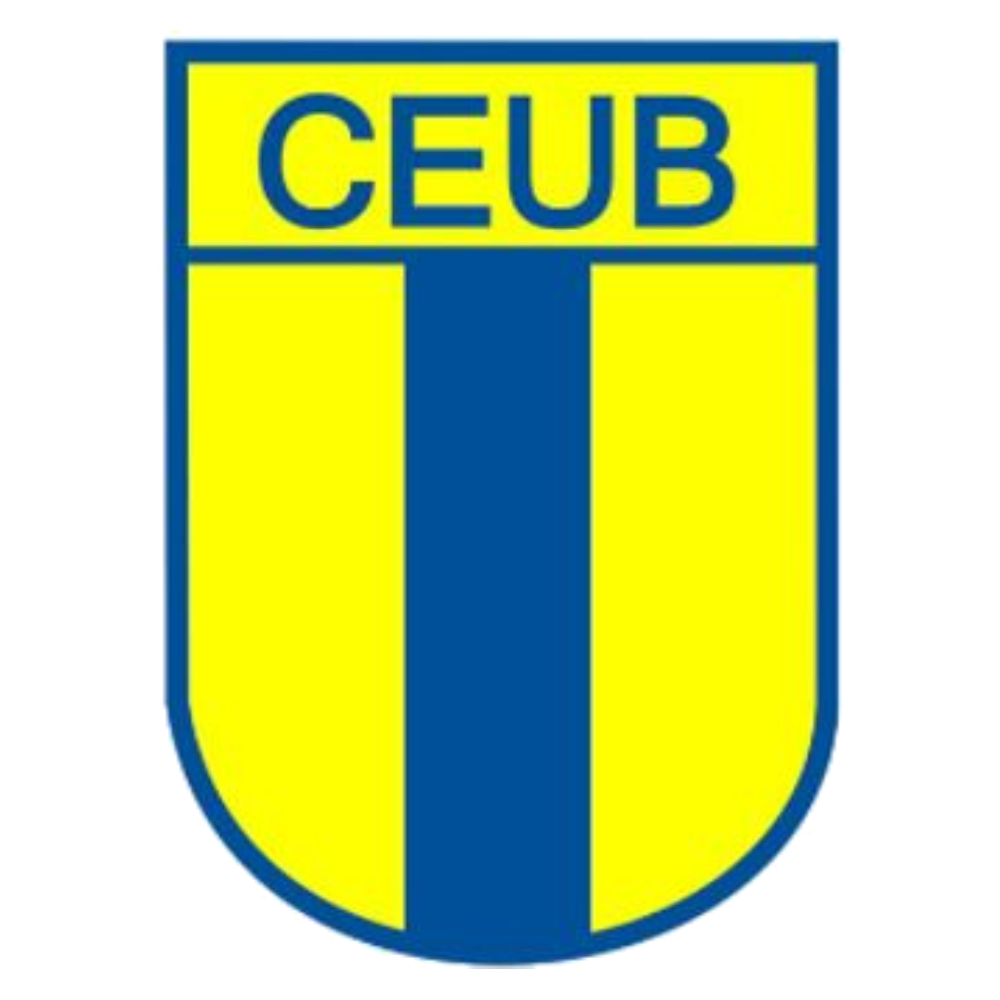
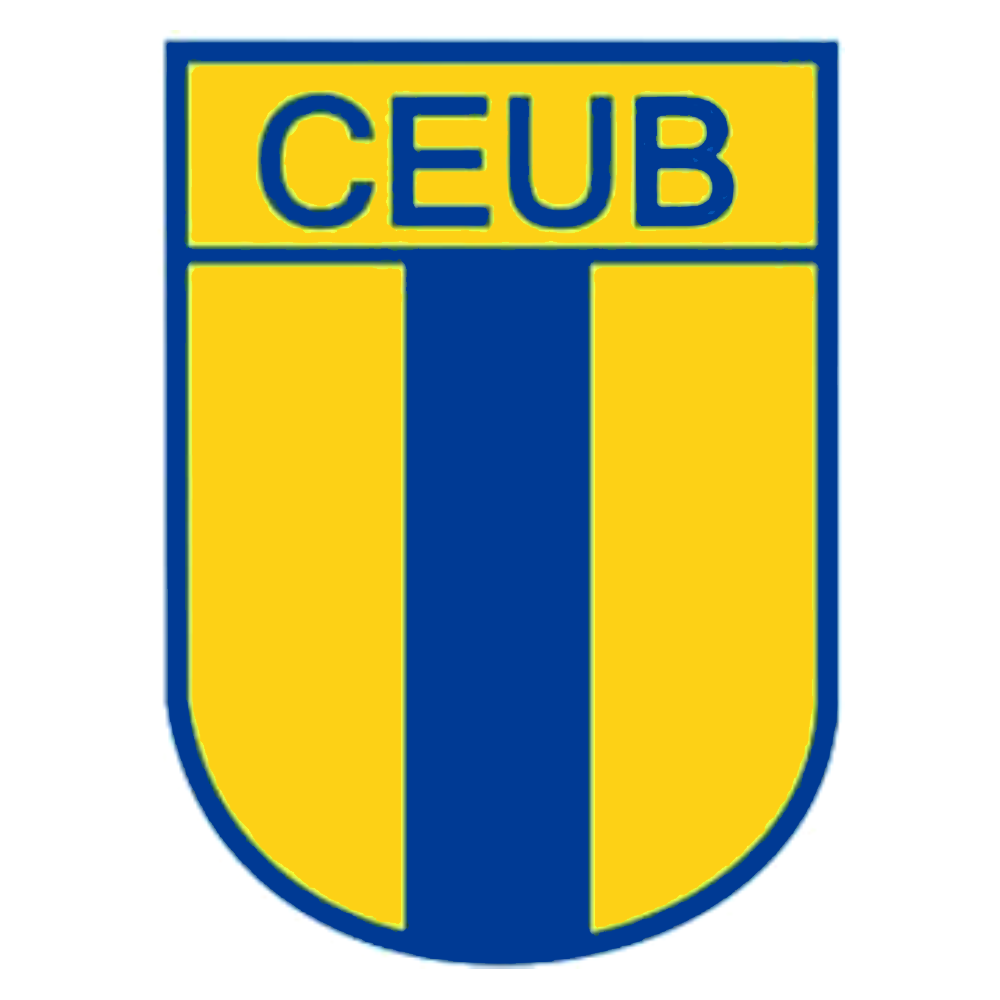
melhorando escudos

diff --git a/src/Times.js b/src/Times.js
@@ -47,7 +47,7 @@ function Times(time, data) {
                   nomeAtual = time;
                   escudo = time;
                   backgroundColor = "#006c34";
-                  letterColor = "black";
+                  letterColor = "white";
                   break;
             case "Barra da Tijuca":
                   nomeAtual = time;
@@ -248,7 +248,7 @@ function Times(time, data) {
             case "Byron":
                   nomeAtual = time;
                   escudo = time;
-                  backgroundColor = "#fe0000";
+                  backgroundColor = "#d30a11";
                   letterColor = "white";
                   break;
             case "Americano":
@@ -629,7 +629,7 @@ function Times(time, data) {
             case "Brusque":
                   nomeAtual = time;
                   escudo = time;
-                  backgroundColor = "#fde900";
+                  backgroundColor = "#fdd116";
                   letterColor = "red";
                   break;
             case "Cabofriense":
@@ -747,7 +747,7 @@ function Times(time, data) {
             case "CENE":
                   nomeAtual = time;
                   escudo = time;
-                  backgroundColor = "#fffc03";
+                  backgroundColor = "#fdd116";
                   letterColor = "black";
                   break;
             case "Cerezo Osaka":
@@ -771,8 +771,8 @@ function Times(time, data) {
             case "CEUB":
                   nomeAtual = time;
                   escudo = time;
-                  backgroundColor = "#FFFF54";
-                  letterColor = "#415DA6";
+                  backgroundColor = "#fdd116";
+                  letterColor = "#003a94";
                   break;
             case "Chapecoense":
                   nomeAtual = time;
@@ -1011,7 +1011,7 @@ function Times(time, data) {
             case "Duquecaxiense":
                   nomeAtual = time;
                   escudo = time;
-                  backgroundColor = "#f4e654";
+                  backgroundColor = "#fdd116";
                   letterColor = "#003a94";
                   break;
             case "CFZ":
@@ -1154,7 +1154,7 @@ function Times(time, data) {
             case "Deportivo Municipal":
                   nomeAtual = time;
                   escudo = time;
-                  backgroundColor = "#213480";
+                  backgroundColor = "#003a94";
                   letterColor = "white";
                   break;
             case "Deportivo Quito":
@@ -1244,7 +1244,7 @@ function Times(time, data) {
             case "Dynamo de Kiev":
                   nomeAtual = time;
                   escudo = time;
-                  backgroundColor = "#00589d";
+                  backgroundColor = "#003a94";
                   letterColor = "white";
                   break;
             case "Litoral":
@@ -1312,7 +1312,7 @@ function Times(time, data) {
             case "Everton de Viña del Mar":
                   nomeAtual = time;
                   escudo = time;
-                  backgroundColor = "#0d386c";
+                  backgroundColor = "#003a94";
                   letterColor = "#ebd927";
                   break;
             case "Fast Clube":
@@ -1569,8 +1569,8 @@ function Times(time, data) {
             case "Metalúrgico":
                   nomeAtual = time;
                   escudo = time;
-                  backgroundColor = "#d41527";
-                  letterColor = "white";
+                  backgroundColor = "#d30a11";
+                  letterColor = "#252c61";
                   break;
             case "Football and Athletic": case "Associação Internacional-RJ":
                   nomeAtual = "Football and Athletic";
@@ -1972,7 +1972,7 @@ function Times(time, data) {
             case "Juazeirense":
                   nomeAtual = time;
                   escudo = time;
-                  backgroundColor = "#ffff00";
+                  backgroundColor = "#fdd116";
                   letterColor = "#d30a11";
                   break;
             case "Junior Barranquilla":
@@ -2543,7 +2543,7 @@ function Times(time, data) {
             case "Paysandu-RJ":
                   nomeAtual = time;
                   escudo = time;
-                  backgroundColor = "#0105BF";
+                  backgroundColor = "#003a94";
                   letterColor = "white";
                   break;
             case "Peñarol":
@@ -2743,13 +2743,13 @@ function Times(time, data) {
             case "Cruzeiro-RS":
                   nomeAtual = time;
                   escudo = time;
-                  backgroundColor = "#000b7f";
+                  backgroundColor = "#003a94";
                   letterColor = "white";
                   break;
             case "Força e Luz":
                   nomeAtual = time;
                   escudo = time;
-                  backgroundColor = "#da2c2c";
+                  backgroundColor = "#d30a11";
                   letterColor = "white";
                   break;
             case "Resende":
@@ -3600,7 +3600,7 @@ function Times(time, data) {
             case "Pelotas":
                   nomeAtual = time;
                   escudo = time;
-                  backgroundColor = "#0050a0";
+                  backgroundColor = "#003a94";
                   letterColor = "#ffdd00";
                   break;
             case "Guará":
